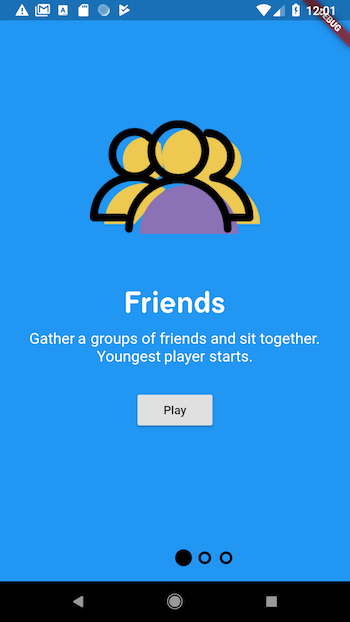
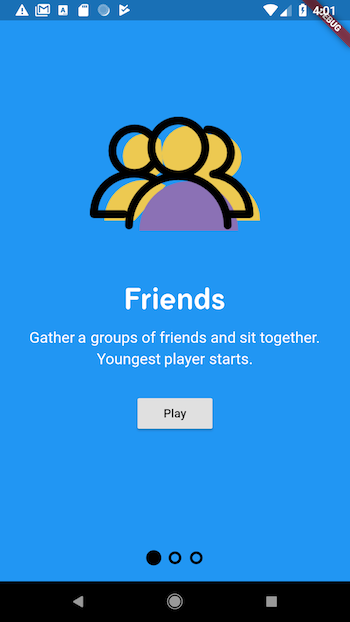
Center the tutorial indicator, increase line height

diff --git a/lib/components/reveal/pager_indicator.dart b/lib/components/reveal/pager_indicator.dart
@@ -55,8 +55,7 @@ class PagerIndicator extends StatelessWidget {
     return new Column(
       children: [
         new Expanded(child: new Container()),
-        new Transform(
-          transform: new Matrix4.translationValues(translation, 0.0, 0.0),
+        new Center(
           child: new Row(
             mainAxisAlignment: MainAxisAlignment.center,
             children: bubbles,
@@ -103,8 +102,8 @@ class PageBubble extends StatelessWidget {
       height: 55.0,
       child: new Center(
         child: new Container(
-          width: lerpDouble(15.0, 20.0, viewModel.activePercent),
-          height: lerpDouble(15.0, 20.0, viewModel.activePercent),
+          width: lerpDouble(15.0, 18.0, viewModel.activePercent),
+          height: lerpDouble(15.0, 18.0, viewModel.activePercent),
           decoration: new BoxDecoration(
             shape: BoxShape.circle,
             color: viewModel.isHollow

diff --git a/lib/screens/category_detail.dart b/lib/screens/category_detail.dart
@@ -47,7 +47,7 @@ class CategoryDetailScreenStage extends State<CategoryDetailScreen> {
     return Scaffold(
       body: Container(
         decoration: BoxDecoration(
-          color: Theme.of(context).backgroundColor,
+          color: Theme.of(context).primaryColor,
         ),
         child: Column(
           crossAxisAlignment: CrossAxisAlignment.stretch,

diff --git a/lib/components/reveal/pages.dart b/lib/components/reveal/pages.dart
@@ -70,6 +70,7 @@ class Page extends StatelessWidget {
                   textAlign: TextAlign.center,
                   style: TextStyle(
                     color: Colors.white,
+                    height: 1.2,
                     fontSize: 18.0,
                   ),
                 ),
